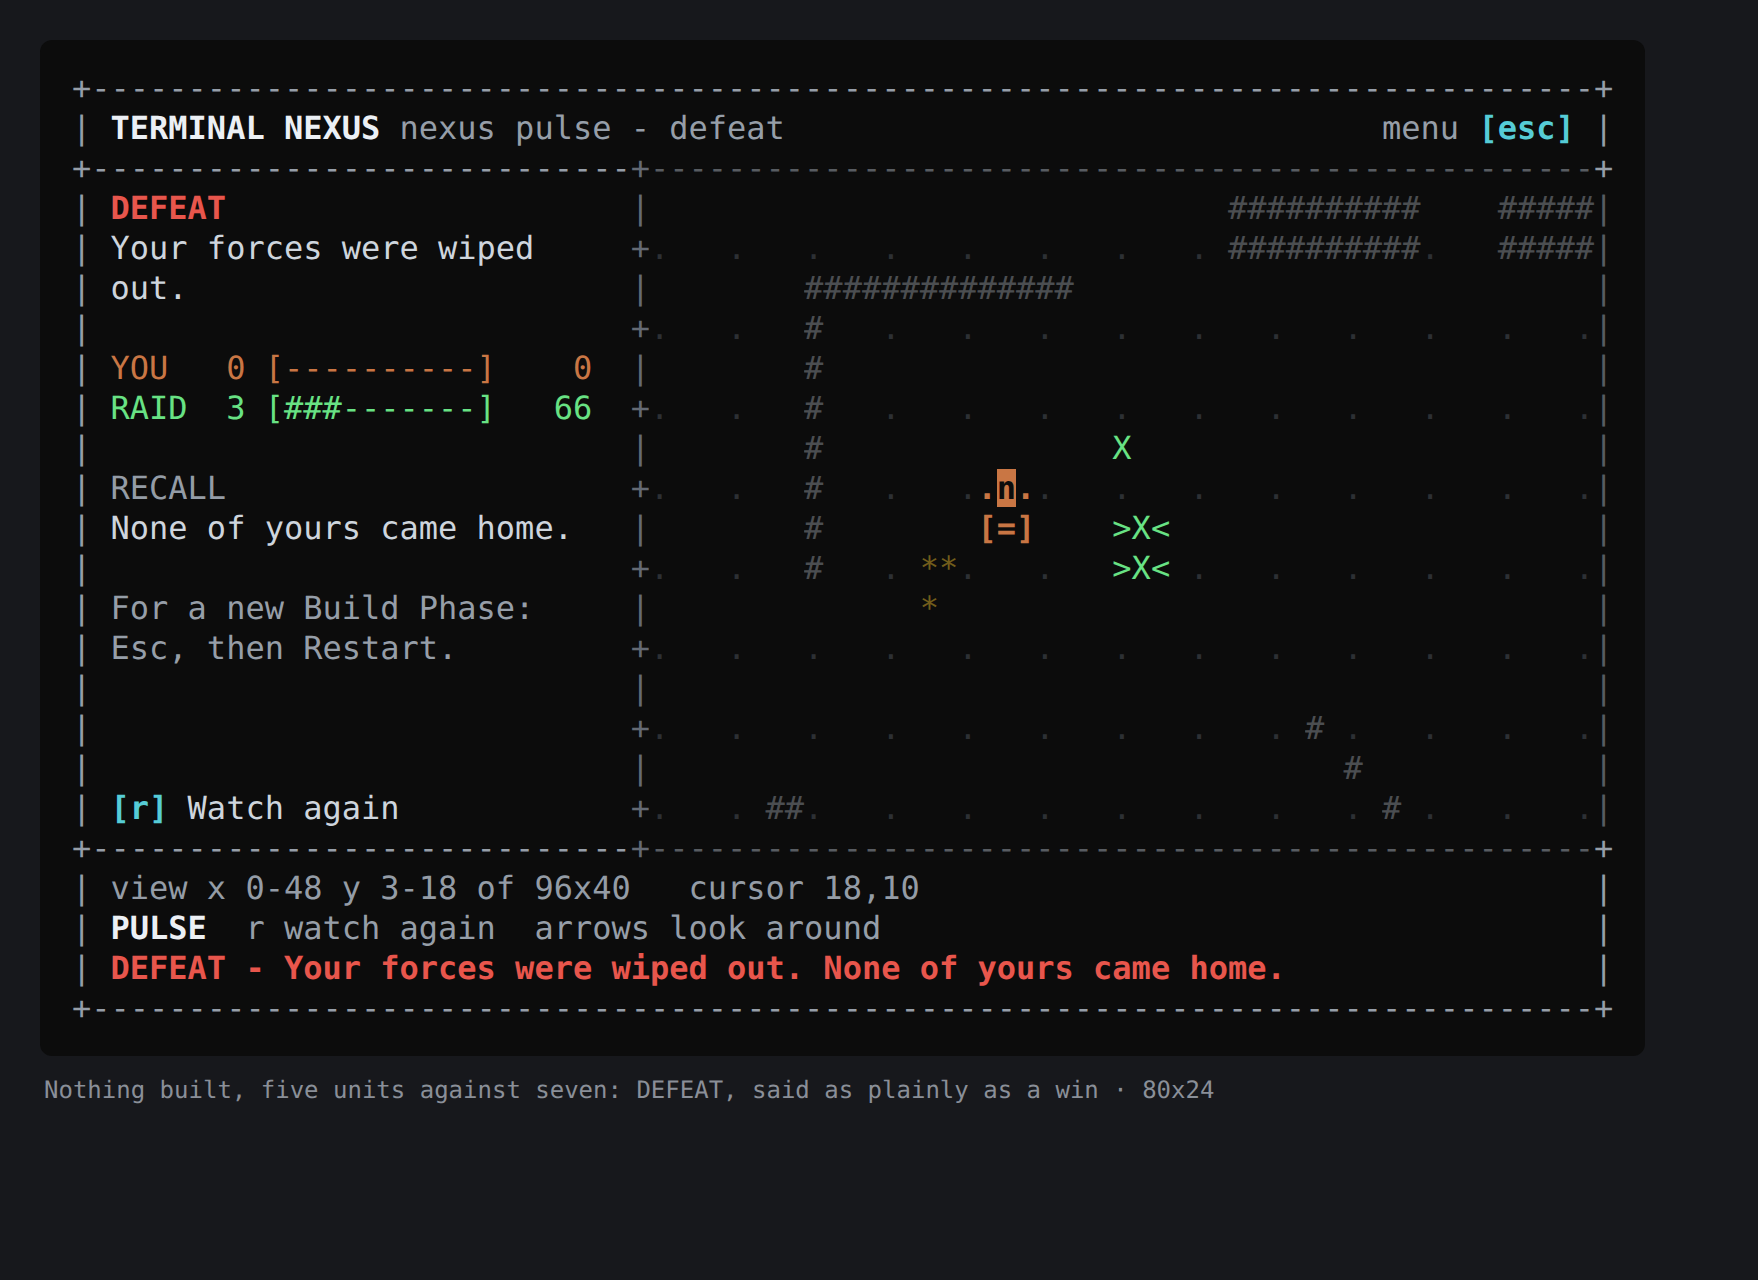
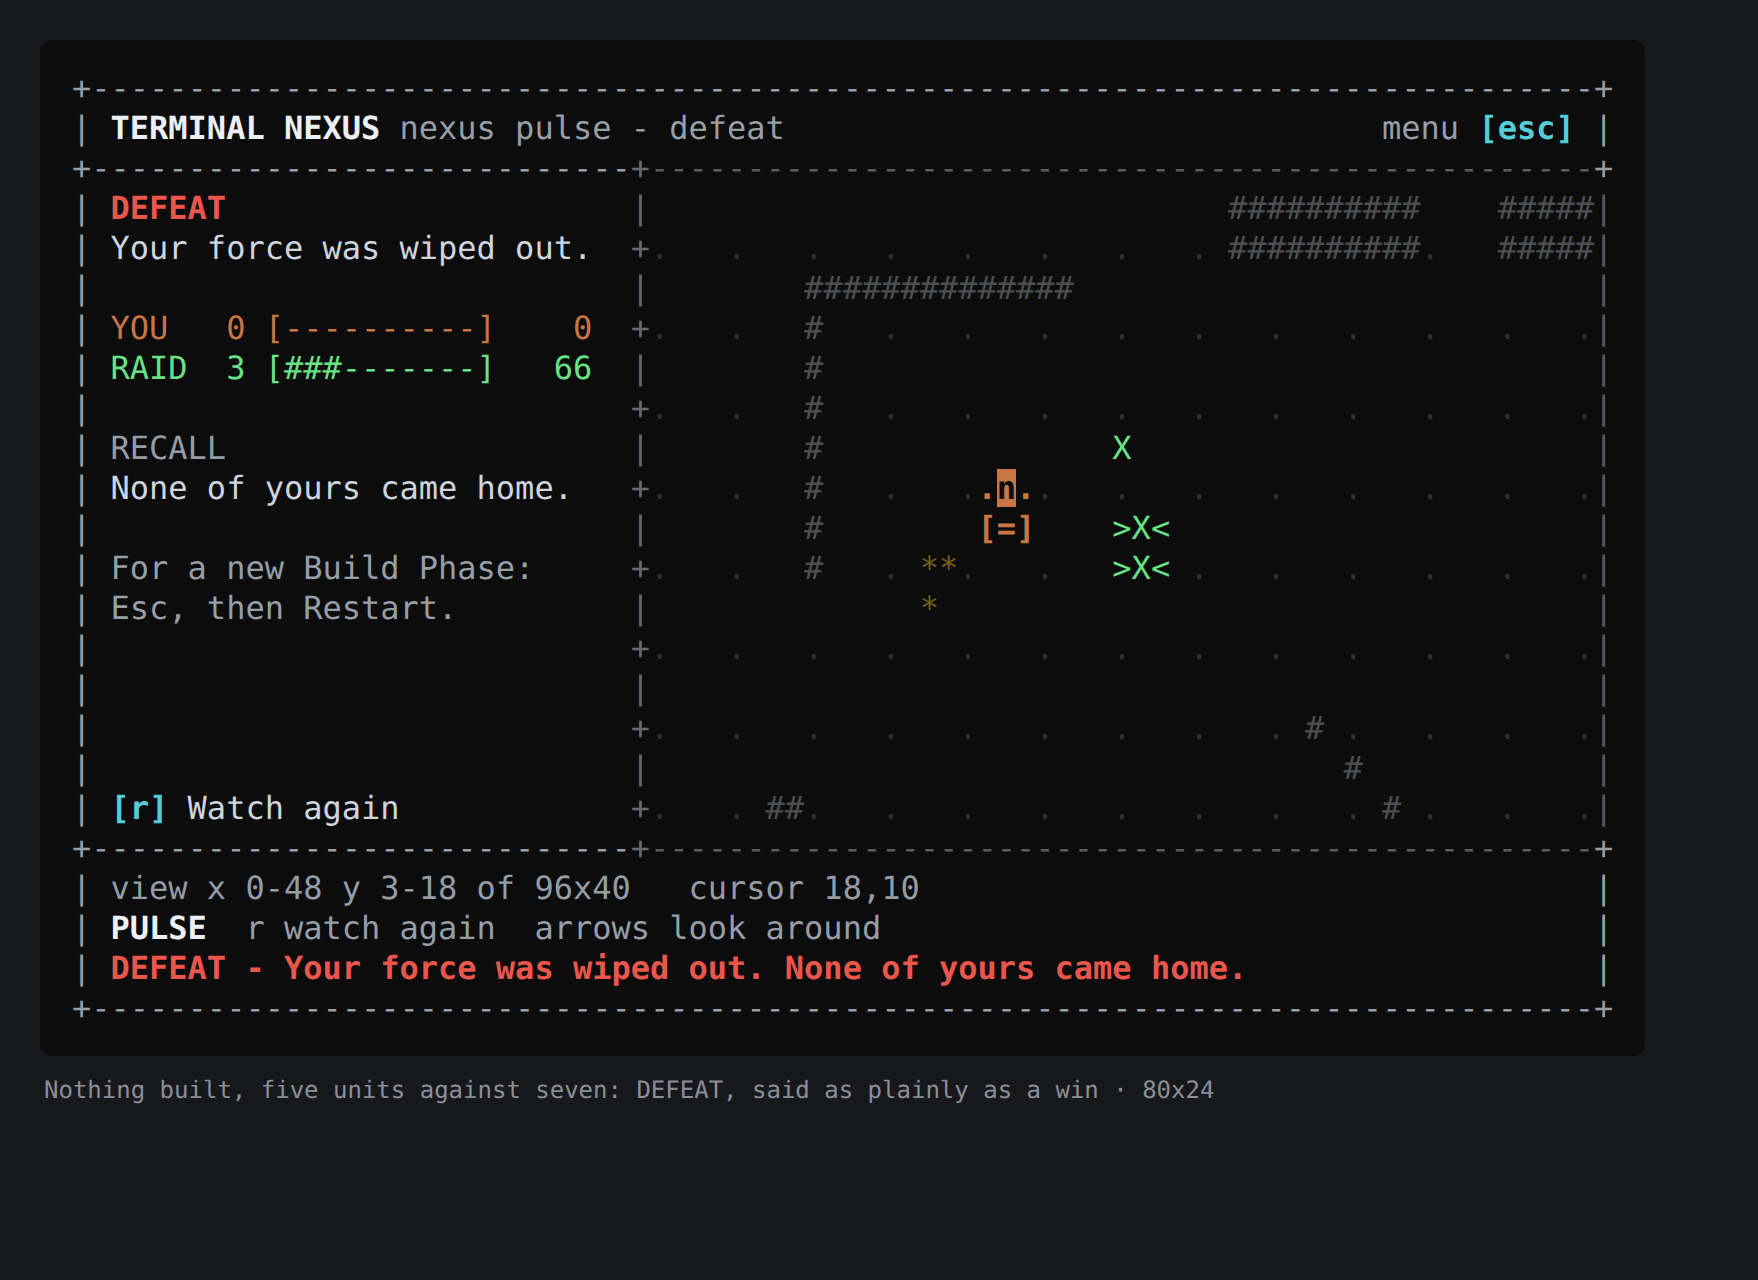
Result wording: no sentence leaves a one-word line in the 27-column panel
'Your force was wiped out.' and 'Both sides were wiped out.' fit the panel in one line where the
plural forms wrapped and left 'out.' alone on the next; the defeat picture is regenerated.

Claude-Session: https://claude.ai/code/session_01Ybh8Ek3gRkGQe3HomBPoCN

diff --git a/src/view/ending.ts b/src/view/ending.ts
@@ -121,7 +121,7 @@ export function resultOf(outcome: Outcome, player: PlayerId = "A"): PulseResult 
     }
     return {
       headline: "DRAW",
-      reason: outcome.reason === "nexus-destroyed" ? "Both Nexuses were destroyed." : "Both forces were wiped out.",
+      reason: outcome.reason === "nexus-destroyed" ? "Both Nexuses were destroyed." : "Both sides were wiped out.",
       tone: "neutral",
     }
   }
@@ -133,5 +133,5 @@ export function resultOf(outcome: Outcome, player: PlayerId = "A"): PulseResult 
   }
   return won
     ? { headline: "VICTORY", reason: "The raid was wiped out.", tone: "success" }
-    : { headline: "DEFEAT", reason: "Your forces were wiped out.", tone: "danger" }
+    : { headline: "DEFEAT", reason: "Your force was wiped out.", tone: "danger" }
 }

diff --git a/tests/pulse-screen.test.ts b/tests/pulse-screen.test.ts
@@ -132,7 +132,7 @@ test("a lost Pulse and a timed-out one say so plainly, and a draw is a draw", ()
   at(lost, 0)
   at(lost, times(lost).homeMs + 100)
   assert.match(screenText(lost), /^\| DEFEAT /m)
-  assert.match(screenText(lost), /Your forces were wiped out\./)
+  assert.match(screenText(lost), /Your force was wiped out\./)
   // Nobody left to walk home is said as that, not as "0 of yours".
   assert.match(screenText(lost), /None of yours came home\./)
   assert.doesNotMatch(screenText(lost), /\b0 of yours came home/)

diff --git a/tests/ending.test.ts b/tests/ending.test.ts
@@ -148,7 +148,7 @@ test("the result says what happened in words: won, lost, drawn or timed out — 
   })
   assert.deepEqual(resultOf(outcome("B", "annihilation")), {
     headline: "DEFEAT",
-    reason: "Your forces were wiped out.",
+    reason: "Your force was wiped out.",
     tone: "danger",
   })
   assert.deepEqual(resultOf(outcome("B", "nexus-destroyed")), {
